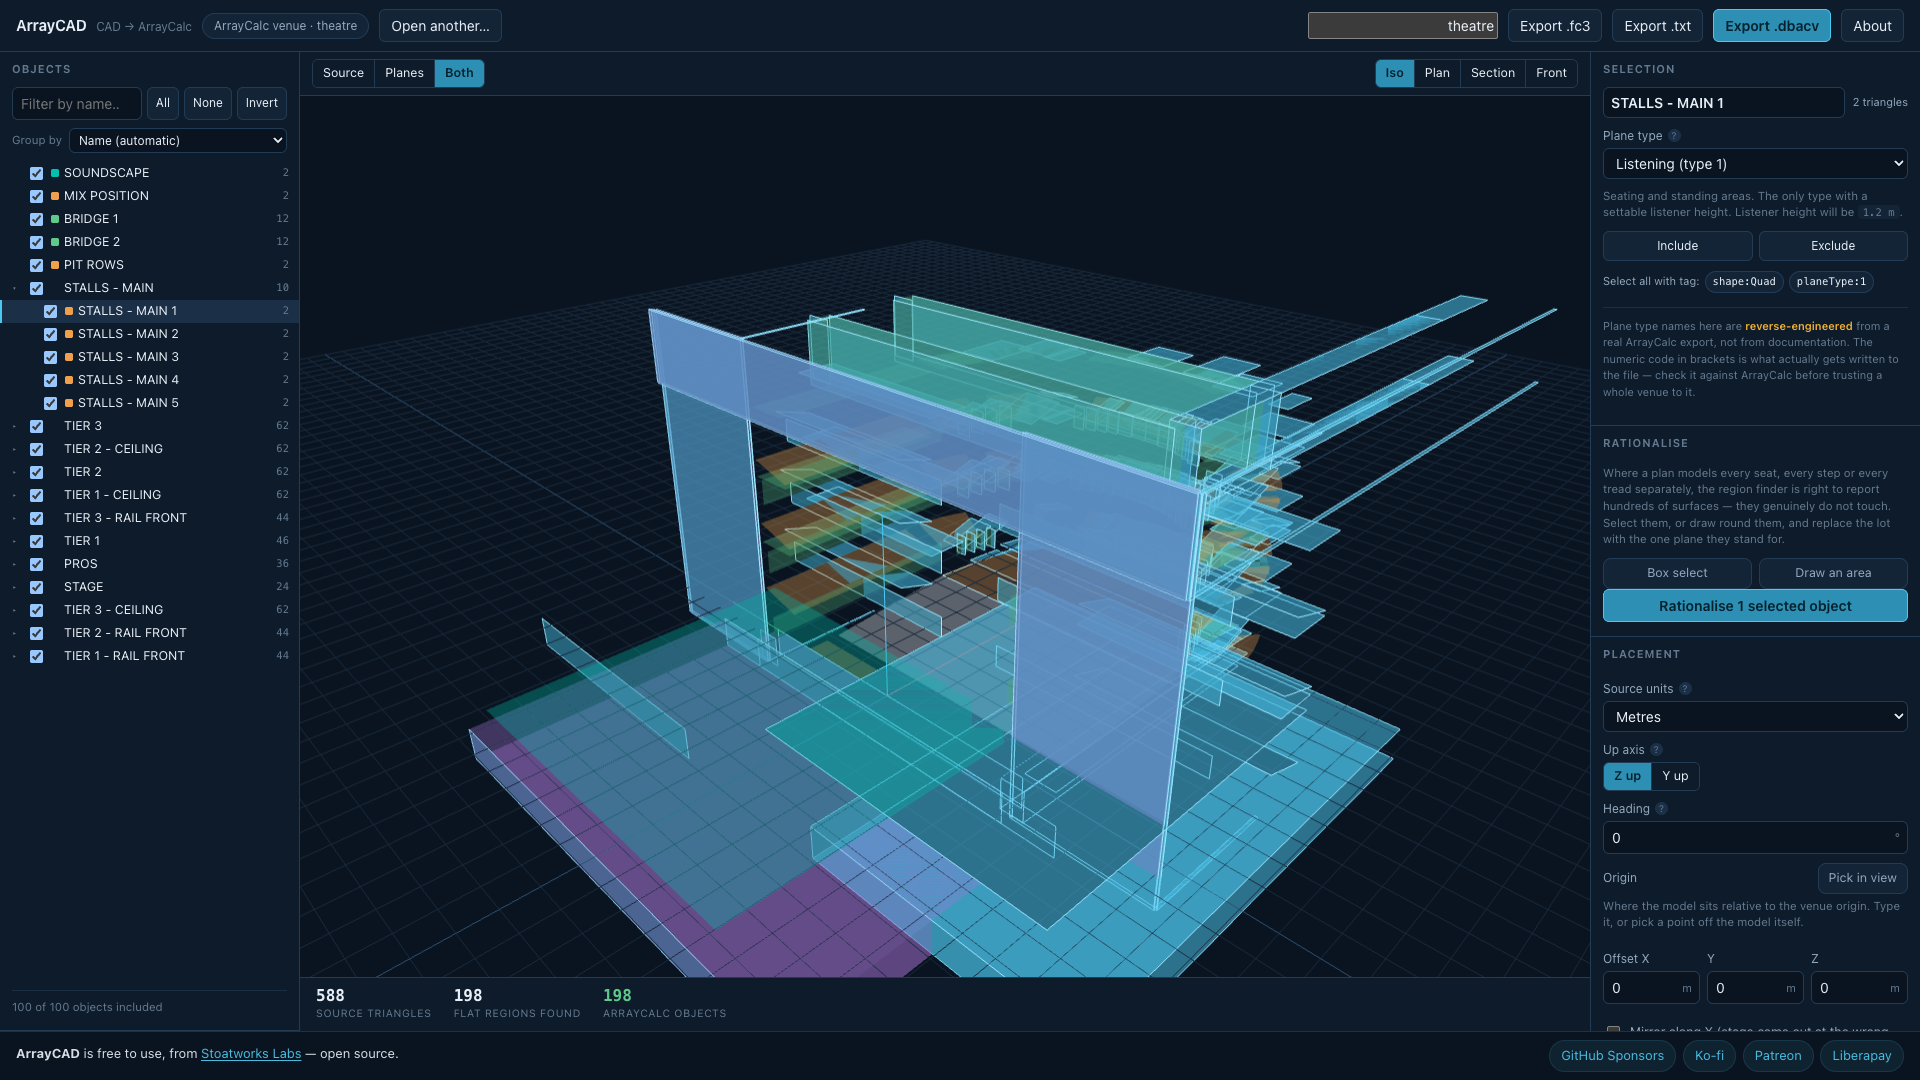
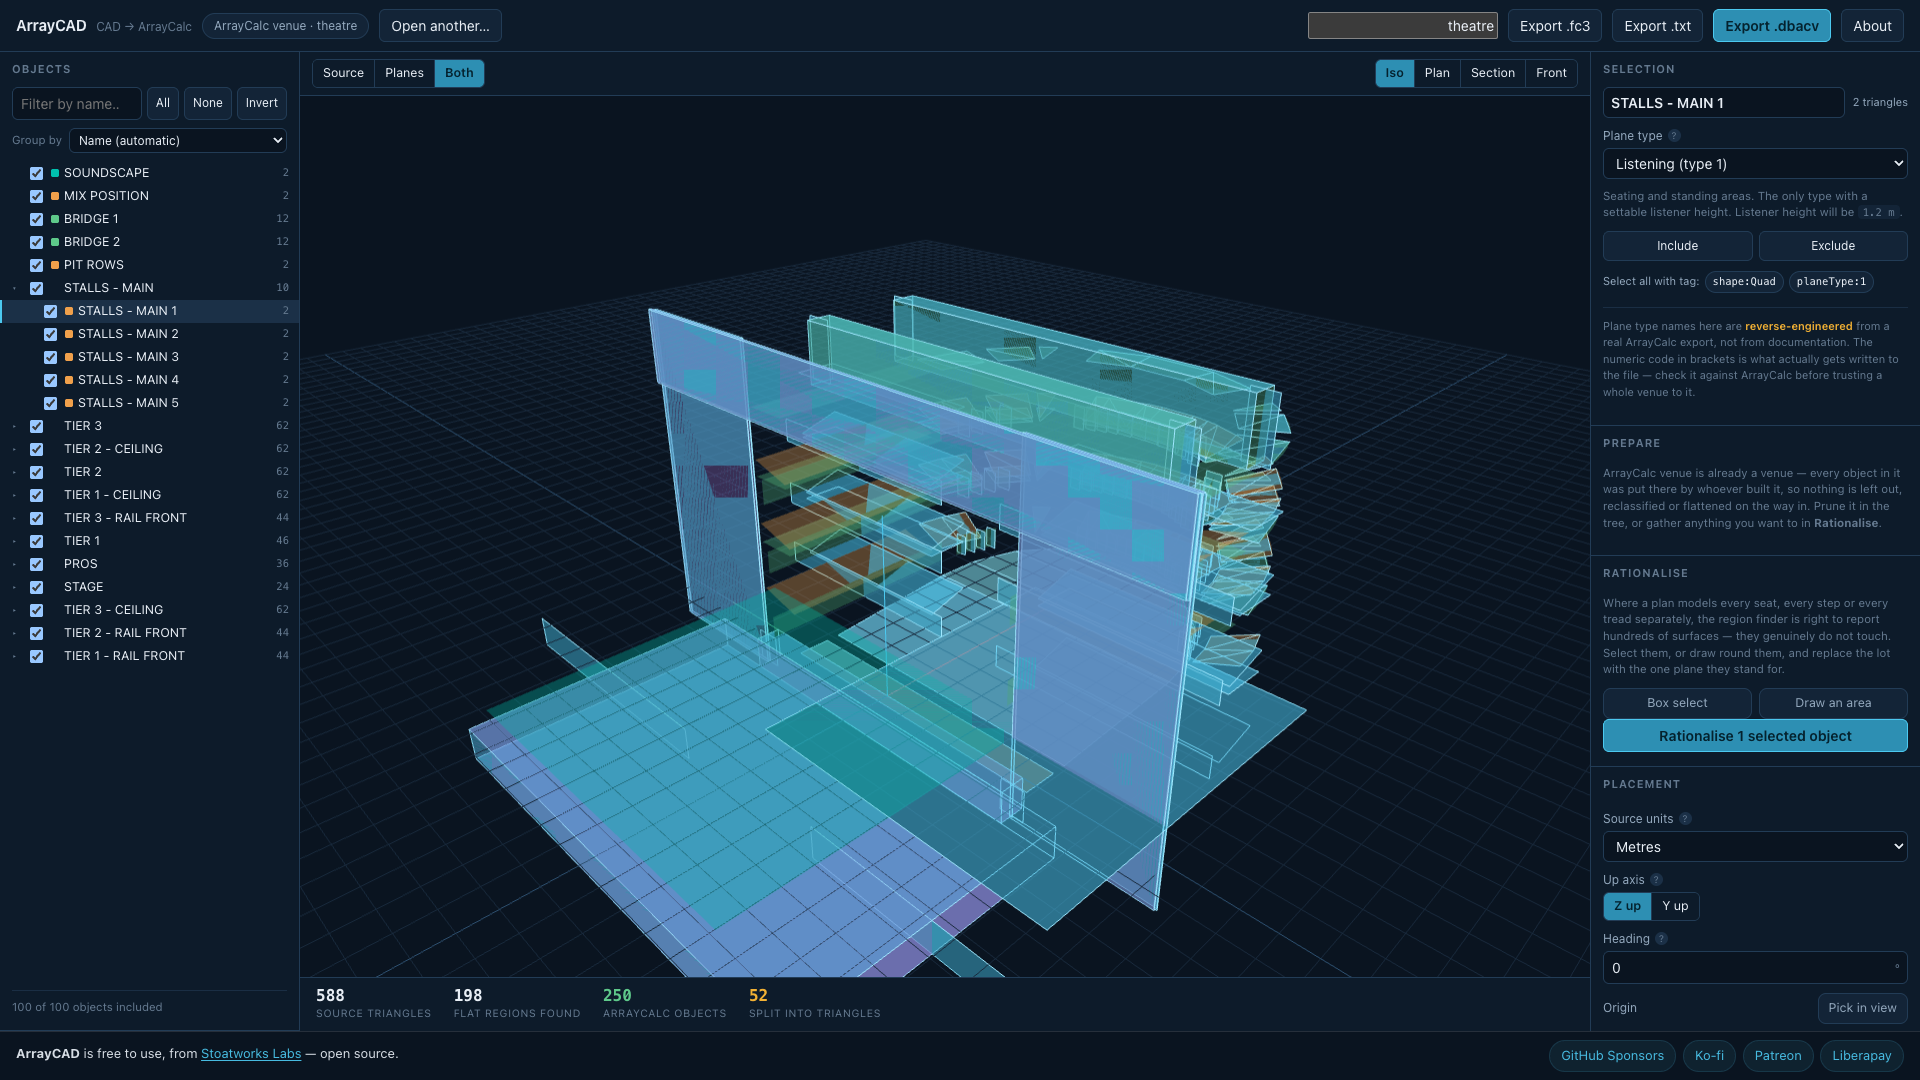
Leave a file that is already a venue alone, and call it v0.3.0
Preparation reads the names in a drawing to decide what is clutter. An
ArrayCalc, Soundvision or EASE Focus project is not a drawing: every object in
one was put there by whoever built it, and its names are theirs. Run the
vocabulary over a real venue and `LIGHTING BRIDGE` — an ArrayCalc plane type 2,
in the reference export this project was reverse-engineered from — reads as
rigging and is dropped on the way in.

So the three venue importers now set `ImportedScene.alreadyAVenue` and
`prepareScene` hands back an empty plan for them. The panel says why rather
than offering five checkboxes that do nothing.

Also the release chores: v0.3.0 in the manifest and the About window (via
sync-about.py), and all four documentation screenshots retaken from the real
app — the right column has a Prepare panel in it now, so every one of them was
stale.

Changed region(s): [[0.25, 0.275, 0.8125, 0.9472], [0.8125, 0.3972, 1.0, 0.9167], [0.9375, 0.9167, 1.0, 0.9472]]

diff --git a/src/state.test.ts b/src/state.test.ts
@@ -9,7 +9,17 @@
 import { describe, expect, it } from 'vitest'
 import { PlaneType } from './lib/dbacv/types.ts'
 import type { ImportedNode, ImportedScene } from './lib/import/types.ts'
-import { DEFAULT_SETTINGS, applyPlan, conversionEntries, newRationalisation, rationalisedAreas, rationalisationsFromPlan, seedDecisions } from './state.ts'
+import {
+  DEFAULT_PREPARE_SETTINGS,
+  DEFAULT_SETTINGS,
+  applyPlan,
+  conversionEntries,
+  newRationalisation,
+  prepareScene,
+  rationalisationsFromPlan,
+  rationalisedAreas,
+  seedDecisions,
+} from './state.ts'
 import { preparePlan } from './lib/prepare/index.ts'
 
 let seq = 0
@@ -50,6 +60,30 @@ describe('applying a plan', () => {
     const s = scene([node('DIMENSIONS', deck(10, 10))])
     const seeded = seedDecisions(s)
     expect(applyPlan(seeded, null)).toEqual(seeded)
+  })
+})
+
+describe('a file that is already a venue', () => {
+  /**
+   * An ArrayCalc, Soundvision or EASE Focus project has been through a designer already.
+   * Its objects are the ones they chose, its names are the ones they gave, and a pass that
+   * reads `LIGHTING BRIDGE` as rigging would drop a plane somebody put there on purpose.
+   */
+  it('is left exactly as its author built it', () => {
+    const s: ImportedScene = {
+      ...scene([node('LIGHTING BRIDGE', deck(6, 2, 7)), node('SOUNDSCAPE', deck(4, 3, 1))]),
+      format: 'ArrayCalc venue',
+      alreadyAVenue: true,
+    }
+    const prepared = prepareScene(s, settings.transform, DEFAULT_PREPARE_SETTINGS)
+
+    expect(prepared.scene).toBe(s)
+    expect(prepared.plan.exclude.size).toBe(0)
+    expect(prepared.plan.seating).toEqual([])
+    expect(prepared.simplify).toBeNull()
+    // And the same file WITHOUT the flag would indeed have thrown the bridge away, which
+    // is what makes the flag load-bearing rather than decorative.
+    expect(preparePlan(s, settings.transform).exclude.size).toBe(1)
   })
 })
 

diff --git a/src/lib/import/types.ts b/src/lib/import/types.ts
@@ -38,6 +38,17 @@ export interface ImportedScene {
   unitsPerMetre?: number
   /** When the format states its up axis. Undefined means the user must choose. */
   upAxis?: 'y' | 'z'
+  /**
+   * This file is ALREADY a venue: an ArrayCalc, Soundvision or EASE Focus project.
+   *
+   * Every object in one of those was put there by whoever built it. There is no clutter
+   * to leave out, nothing to classify that is not already classified, and no scattering
+   * of seats to gather — the person who made the file did all of that. So `prepare/`
+   * leaves it alone rather than second-guessing a finished design: a venue whose author
+   * named a plane `LIGHTING BRIDGE` meant it to be there, and an automatic pass reading
+   * that name as rigging would quietly drop it on the way in.
+   */
+  alreadyAVenue?: boolean
   nodes: ImportedNode[]
   /** Non-fatal problems worth showing: skipped entities, unsupported features. */
   warnings: string[]

diff --git a/src/components/PreparePanel.tsx b/src/components/PreparePanel.tsx
@@ -44,6 +44,19 @@ export function PreparePanel({ prepared, busy, onChange }: Props) {
   const { options, plan, simplify } = prepared
   const cut = simplify && simplify.trianglesIn > 0 ? 1 - simplify.trianglesOut / simplify.trianglesIn : 0
 
+  // A file that is already a venue gets none of this, and saying so is better than five
+  // checkboxes that do nothing when ticked. Whoever built it already decided what belongs
+  // in it; there is no clutter to find and no seating left scattered.
+  if (prepared.raw.alreadyAVenue) {
+    return (
+      <p className="hint">
+        {prepared.raw.format} is already a venue — every object in it was put there by
+        whoever built it, so nothing is left out, reclassified or flattened on the way in.
+        Prune it in the tree, or gather anything you want to in <strong>Rationalise</strong>.
+      </p>
+    )
+  }
+
   return (
     <>
       <p className="hint">

diff --git a/src/state.ts b/src/state.ts
@@ -33,6 +33,7 @@ import {
   type SimplifyStats,
   DEFAULT_PREPARE,
   DEFAULT_SIMPLIFY,
+  EMPTY_PLAN,
   preparePlan,
   simplifyScene,
 } from './lib/prepare/index.ts'
@@ -181,6 +182,13 @@ export function prepareScene(
   transform: TransformOptions,
   options: PrepareSettings,
 ): Prepared {
+  // A file that is already a venue is left exactly as its author built it. See
+  // `ImportedScene.alreadyAVenue` — there is nothing here to improve on, and plenty to
+  // damage.
+  if (raw.alreadyAVenue) {
+    return { raw, scene: raw, plan: EMPTY_PLAN, simplify: null, options, transform }
+  }
+
   const simplified = options.simplifyHeavy
     ? simplifyScene(raw, transform, DEFAULT_SIMPLIFY)
     : { scene: raw, stats: null }

diff --git a/public/about-data.js b/public/about-data.js
@@ -1,7 +1,7 @@
 /*
  * Stoatworks Labs — About window data for ArrayCAD.
  *
- * GENERATED by stoatworks-backend/scripts/sync-about.py on 2026-08-03. Do not
+ * GENERATED by stoatworks-backend/scripts/sync-about.py on 2026-08-04. Do not
  * edit: the next sync overwrites it. The facts come from the website's
  * projects.json, which is the one place they are written down.
  *
@@ -12,7 +12,7 @@
 window.STOATWORKS_ABOUT = Object.assign({
   "name": "ArrayCAD",
   "slug": "arraycad",
-  "version": "v0.2.0",
+  "version": "v0.3.0",
   "hook": "A CAD model or a PDF plan in, ArrayCalc or Soundvision out",
   "licence": "",
   "guide": "",

diff --git a/src/lib/import/soundvisionScene.ts b/src/lib/import/soundvisionScene.ts
@@ -95,6 +95,7 @@ export function importSoundvisionAsScene(text: string, filename: string): Import
   return {
     // Read by the .dbacv writer for its venue comment, so it says what this came from.
     format: 'Soundvision 3D room data',
+    alreadyAVenue: true,
     sourceName: filename.replace(/\.[^.]+$/, ''),
     // Soundvision works in metres with Z up, and geometry that will be read as metres by
     // Soundvision is in metres by definition. The header's `LengthUnit` row is a comment

diff --git a/src/lib/import/easefocusScene.ts b/src/lib/import/easefocusScene.ts
@@ -81,6 +81,7 @@ export function importEaseFocusAsScene(bytes: Uint8Array, filename: string): Imp
 
   return {
     format: `EASE Focus project${writtenBy ? ` (${writtenBy.trim()})` : ''}`,
+    alreadyAVenue: true,
     sourceName: filename.replace(/\.[^.]+$/, ''),
     // EASE Focus is metres with Z up throughout; the format carries no unit declaration
     // and the application offers no unit setting.

diff --git a/src/lib/import/dbacvScene.ts b/src/lib/import/dbacvScene.ts
@@ -163,6 +163,7 @@ export function importDbacvAsScene(
   const venue = parseDbacv(xml, parser)
   return {
     format: 'ArrayCalc venue',
+    alreadyAVenue: true,
     sourceName: filename.replace(/\.[^.]+$/, ''),
     unitsPerMetre: 1,
     upAxis: 'z',

diff --git a/AGENTS.md b/AGENTS.md
@@ -585,6 +585,12 @@ that silently left out forty objects is indistinguishable from an importer that 
 
 ### What has to stay true
 
+- **A file that is ALREADY a venue gets none of this.** `.dbacv`, Soundvision `.txt` and
+  `.fc3` importers set `ImportedScene.alreadyAVenue`, and `prepareScene` returns an empty
+  plan for them. Every object in one of those was put there by a designer: there is no
+  clutter to find, nothing to classify that is not classified, and no seating left
+  scattered. Run the vocabulary over one and it reads `LIGHTING BRIDGE` — a real ArrayCalc
+  plane type 2 — as rigging and drops it on the way in.
 - **A plan is applied as `Decisions` and `Rationalisation[]`, never as a scene edit.**
   Everything it does is therefore visible in the tree, ghosted rather than hidden in the
   viewport, and undone by one click — the same rule as §4 and §11 and for the same reason.

diff --git a/CLAUDE.md b/CLAUDE.md
@@ -79,6 +79,9 @@ deploy `npx wrangler deploy`.
   tree and undone by one click. Clutter beats every other category and seating loses to all
   of them; whole-word matching only. Seating is found BEFORE the "too small" test, or a
   seat modelled as a flat pan is left out as trim. See AGENTS.md §12.
+- **Preparation never runs on a file that is already a venue.** The three venue importers
+  set `alreadyAVenue` and `prepareScene` hands back an empty plan. `LIGHTING BRIDGE` is a
+  real ArrayCalc plane, not rigging, and the clutter vocabulary cannot tell the difference.
 - **`prepare/simplify.ts` re-cuts geometry, and refuses more than it accepts.** A region
   that is only nearly flat, or that has a nearly-parallel neighbour, is left alone — the
   second because re-cutting one tier of a raked fan changes which triangles its NEIGHBOURS
